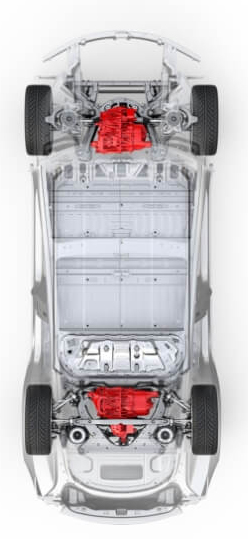
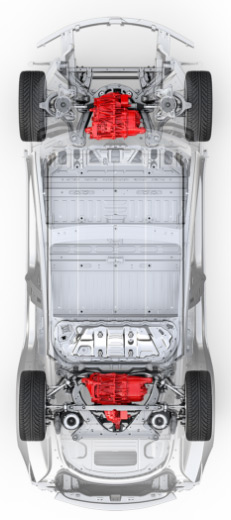
imagens de engine e responsivo home e engine

diff --git a/src/components/EngineForm.vue b/src/components/EngineForm.vue
@@ -2,9 +2,10 @@
   <b-container class="engine">
     <b-row>
       <b-col cols="12" md="6">
-        <figure class="engine--image">
+        <picture class="engine--image">
+          <source :srcset="imageUrlMobile" media="(max-width: 767px)">
           <img :src="imageUrl" alt="">
-        </figure>
+        </picture>
       </b-col>
       <b-col cols="12" md="6">
           <h2 class="option--title">Engine</h2>
@@ -41,7 +42,8 @@ export default {
   data() {
     return {
       engineSelected: 1,
-      imageUrl: require(`@/assets/Engine1.jpg`)
+      imageUrl: require(`@/assets/Engine1.jpg`),
+      imageUrlMobile: require(`@/assets/Engine1_xs.jpg`)
     }
   },
   props: {
@@ -50,10 +52,13 @@ export default {
   methods: {
     changeImage(id) {
       if(id === 1) {
-        this.imageUrl = require(`@/assets/Engine1.jpg`)
+        this.imageUrl = require(`@/assets/Engine1.jpg`);
+        this.imageUrlMobile = require(`@/assets/Engine1_xs.jpg`)
       }
-      else
-        this.imageUrl = require(`@/assets/Engine2.jpg`)
+      else{
+        this.imageUrl = require(`@/assets/Engine2.jpg`);
+        this.imageUrlMobile = require(`@/assets/Engine2_xs.jpg`);
+      }
     },
 		emit(engine) {
 			this.$emit('clicked',engine);

diff --git a/src/scss/molecules/_engine.scss b/src/scss/molecules/_engine.scss
@@ -4,6 +4,7 @@
     flex-direction: column;
     align-items: center;
     padding: 20px;
+    margin-bottom: 30px;
   }
   &--item {
     width: 100%;
@@ -41,10 +42,31 @@
     
   }
   &--image {
+    display: block;
     height: 420px;
     text-align: center;
     img {
       max-height: 100%;
+    }
+  }
+}
+
+@media(max-width: 991px) {
+  .engine {
+    &--image {
+      padding: 15px;
+      // height: 320px;
+    }
+  }
+}
+@media (max-width: 767px) {
+  .engine {
+    &--image {
+      height: auto;
+      img {
+        height: auto;
+        max-width: 100%;
+      }
     }
   }
 }

diff --git a/src/scss/molecules/_home.scss b/src/scss/molecules/_home.scss
@@ -38,6 +38,13 @@
     }
   }
 }
+@media (max-width: 767px) {
+  .home {
+    &--title {
+      font-size: 65px;
+    }
+  }
+}
 @media (max-width: 575px) {
   .home {
     &--wrap {
